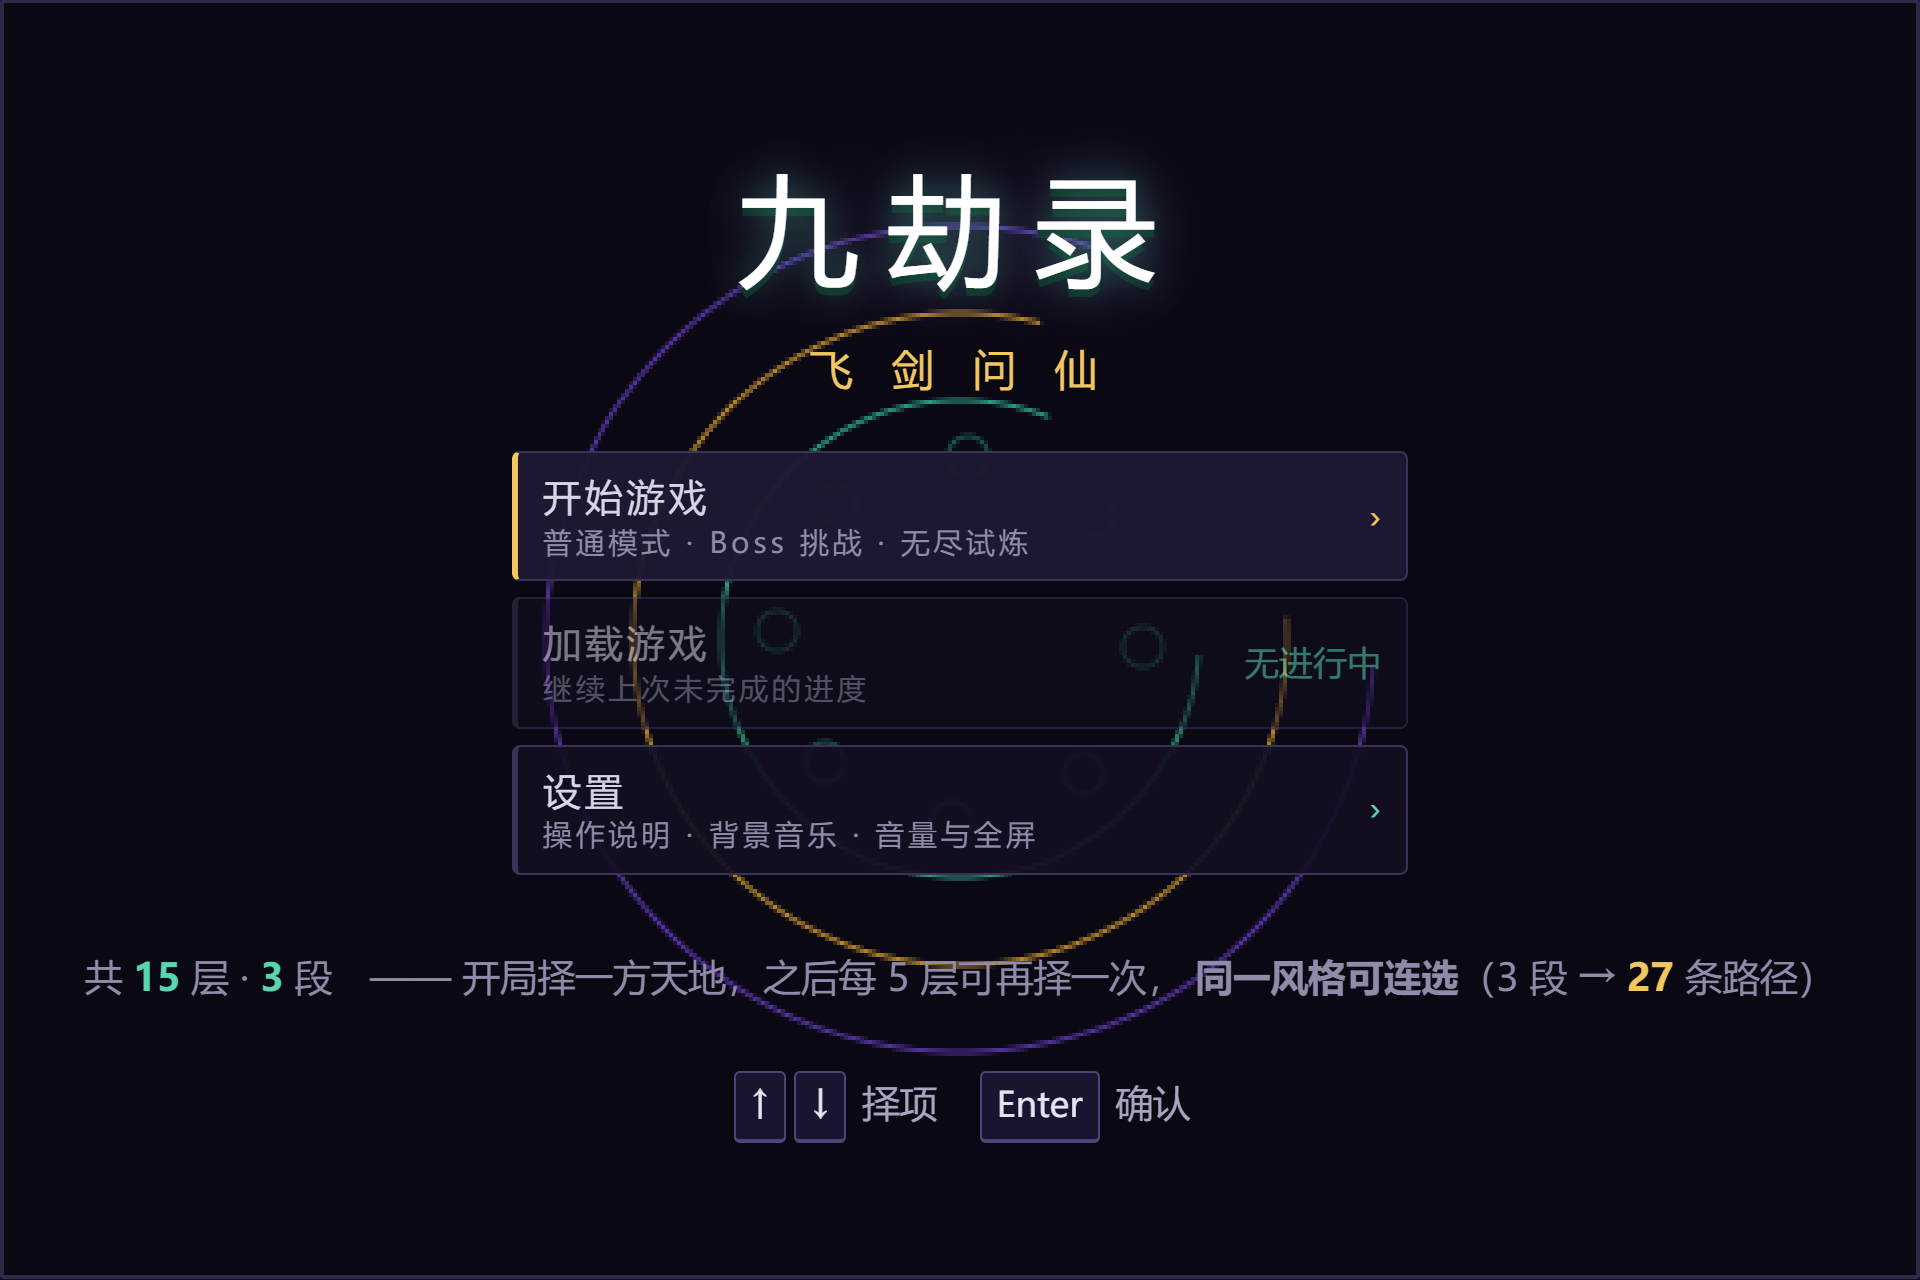
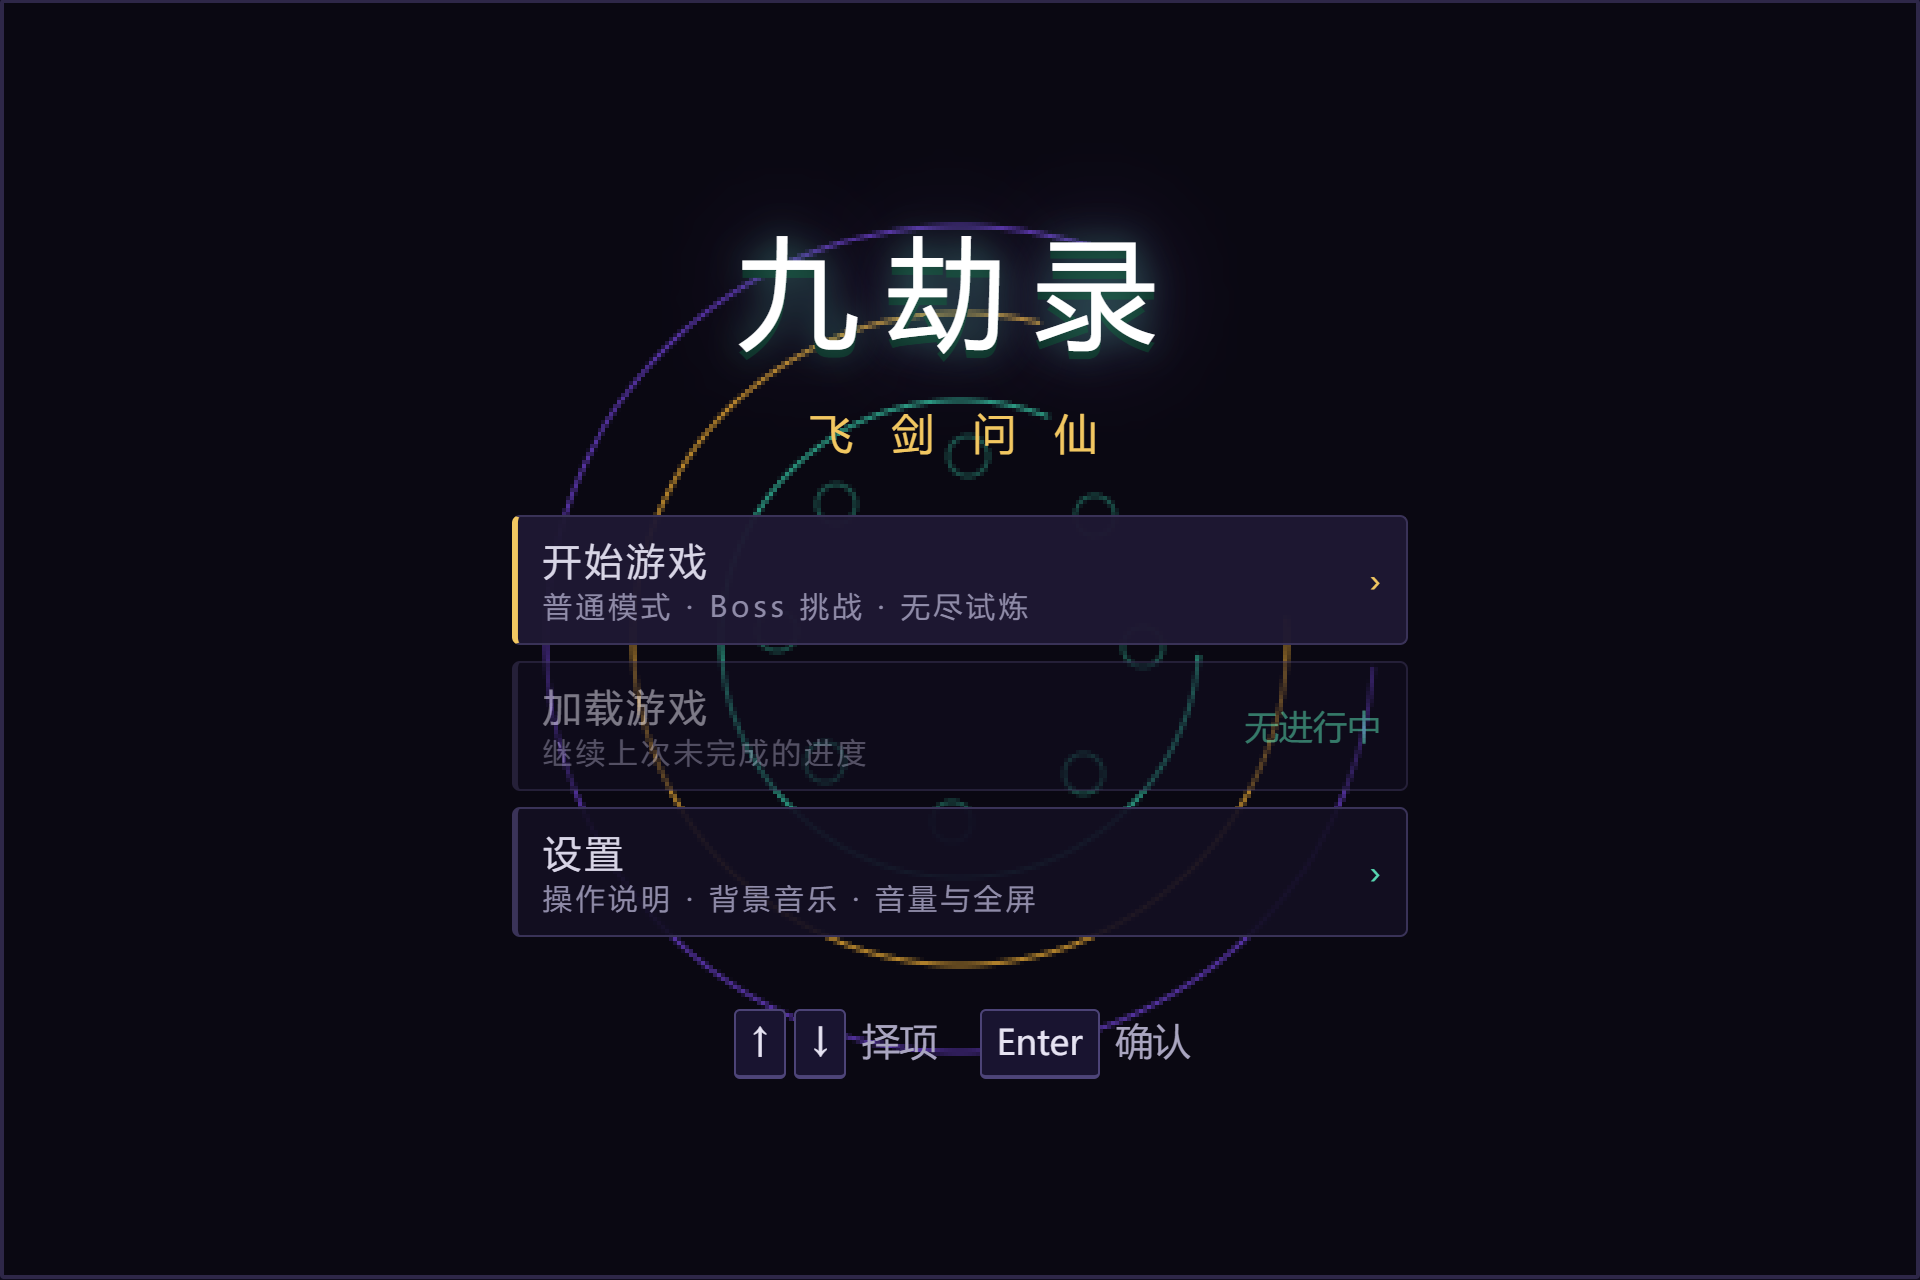
ui(title): 去掉标题页的「共 15 层 · 3 段」说明行
用户要求删掉。改成菜单后这一行是纯说明，占位置且和菜单抢注意力；
层数 / 段数信息在「开始游戏 → 普通模式」的副标题里已经有一份了
（「15 层 · 3 段 · 每 5 层择一方天地」）。

diff --git a/index.html b/index.html
@@ -367,10 +367,6 @@
         <div class="big">九劫录</div>
         <div class="sub">飞 剑 问 仙</div>
         <div id="titleMenu"></div>
-        <div class="tip" style="color:#8f8ba8">
-          共 <b style="color:var(--jade)">15</b> 层 · <b style="color:var(--jade)">3</b> 段　—— 开局择一方天地，之后每 5 层可再择一次，
-          <b>同一风格可连选</b>（3 段 → <b style="color:var(--gold)">27</b> 条路径）
-        </div>
         <div class="tip" id="titleHint"></div>
       </div>
     </div>
